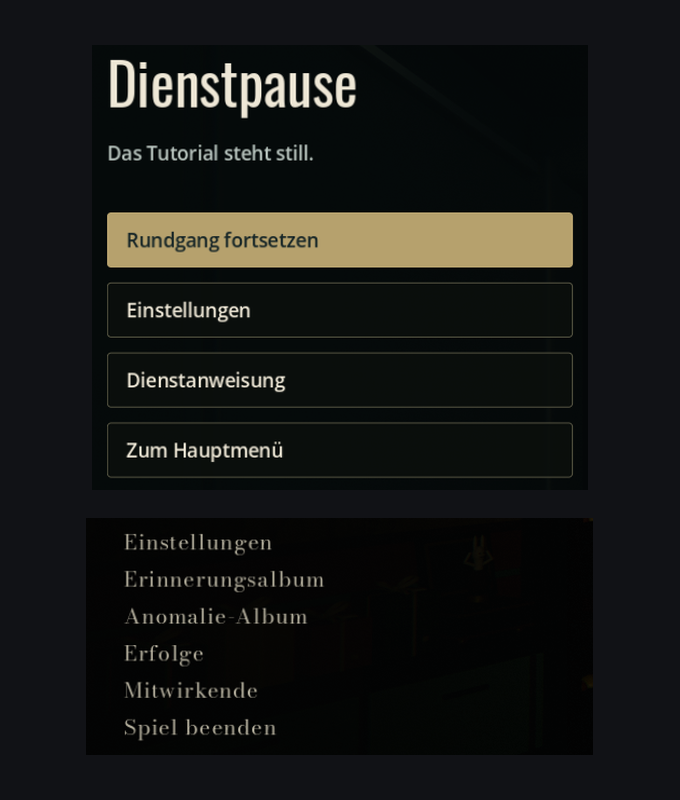
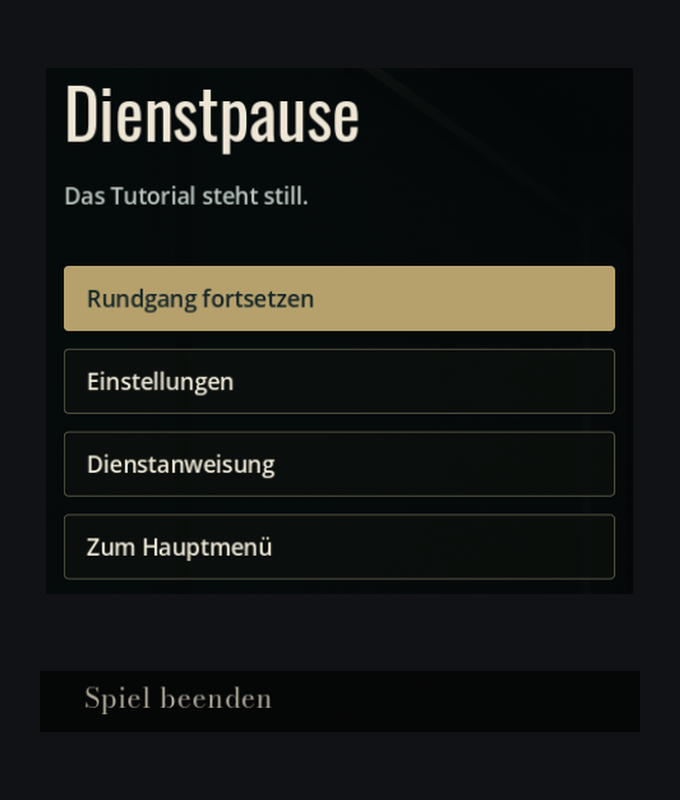
After Play 5.8.0: new main menu
- Dark glass panel over the live room; the party rabbit stays in the real
  scene. The big AFTER PLAY title stays.
- Saved shift as a card on top: round and minutes on duty
- Neue Nachtschicht, Weitere Spielmodi, Tutorial; Extras · Einstellungen;
  Spiel beenden; staff footer
- New Extras submenu: memory album, anomaly album, achievements, credits
- Tutorial uninstall picture: card 1 shows the new main menu
- Version 5.8.0, website download points to v5.8.0
- Tests: continue card in --tutorial-only (29 checks), Extras in album test

diff --git a/frontend/src/nachtwache/Nachtwache.jsx b/frontend/src/nachtwache/Nachtwache.jsx
@@ -18,6 +18,6 @@ export function AfterPlay(){
   const trailer=useRef(null);
   const [playing,setPlaying]=useState(false),[touch]=useState(()=>matchMedia('(pointer: coarse)').matches&&!matchMedia('(any-pointer: fine)').matches);
   const [tab,setTab]=useState(()=>typeof location!=='undefined'&&location.hash.includes('multiplayer')?'multiplayer':'game');
-  const launch=<section className="nightLaunch" aria-labelledby="night-title"><div className="nightLaunchCopy"><h2 id="night-title">After Play</h2><p className="nightSubtitle">Kinderparadies</p><p className="nightLead">Dreizehn Rundgänge.<br/>Keine zweite Sicherheit.</p><p>Nachts gehört das Spieleparadies dir. Kontrolliere Empfang, Bällebad, Party Raum, Wartungsgang, Küche und Kino. Präge dir jedes Detail ein – etwas könnte sich verändert haben.</p><div className="nightRules"><p><i className="nightGreen"/>Alles normal? <strong>Grüne Tür.</strong></p><p><i className="nightRed"/>Etwas stimmt nicht? <strong>Rote Tür.</strong></p><p><strong>13 richtige Entscheidungen in Folge.</strong> Eine falsche Tür beendet die Schicht.</p></div><div className="nightLaunchActions"><a href="/downloads/after-play-windows-v5.7.1.zip" download><Download size={19}/>Für Windows herunterladen</a><button type="button" disabled={touch} onClick={()=>{trailer.current?.pause();setPlaying(true);}}><Play size={19}/>Im Web spielen</button></div><p className="nightSystem"><Monitor size={16}/>Windows 64 Bit · hochwertige PC-Grafik · offline spielbar</p>{touch&&<p className="nightTouchNotice">Die Web-Version benötigt Maus und Tastatur. Den Windows-Download kannst du am PC öffnen.</p>}<details><summary>Steuerung und Spielablauf</summary><p>WASD oder Pfeiltasten: bewegen. Maus: umsehen. Umschalt: rennen. Leertaste: springen. C halten: ducken und krabbeln. E: interagieren. F: Taschenlampe. G: Gegenstände aufheben oder loslassen; linke Maustaste: werfen. TAB: Inventar. ESC: Pause. F11: Vollbild.</p><p>Präge dir beim ersten Rundgang die Räume ein. Alles normal? Grüne Tür. Eine Anomalie entdeckt? Rote Tür. Dreizehn richtige Entscheidungen in Folge beenden die Nachtschicht. Geräusche und selbst verschobene Gegenstände zählen nicht als Anomalien. Deutsch und Englisch sowie Untertitel findest du in den Einstellungen.</p></details><details><summary>Systemanforderungen</summary><p><strong>Mindestens</strong> (Grafik „Leistung“, 1080p): Windows 10/11 64 Bit · 4-Kern-Prozessor wie Intel Core i5-7500 oder AMD Ryzen 3 3100 · 8 GB RAM · Vulkan- oder Direct3D-12-fähige Grafikkarte mit 4 GB, z. B. GeForce GTX 1050 Ti oder Radeon RX 570 · 2 GB Speicherplatz.</p><p><strong>Empfohlen</strong> (Grafik „Hoch“, 1080p, 60 FPS): Intel Core i5-12400 oder AMD Ryzen 5 5600 · 16 GB RAM · GeForce RTX 3060 oder Radeon RX 6600 XT mit 8 GB · 2 GB Speicherplatz.</p></details></div><div className="nightLaunchArt"><video ref={trailer} controls playsInline preload="none" poster="/assets/after-play/trailer-v5.2.2.jpg" aria-label="After Play – Partynacht-Trailer"><source src="/downloads/after-play-trailer-1080p.mp4?v=5.2.2" type="video/mp4"/></video><p>Partynacht-Trailer · 83 Sekunden · echte Spielszenen</p></div>{playing&&<GameWindow onClose={()=>setPlaying(false)}/>}</section>;
+  const launch=<section className="nightLaunch" aria-labelledby="night-title"><div className="nightLaunchCopy"><h2 id="night-title">After Play</h2><p className="nightSubtitle">Kinderparadies</p><p className="nightLead">Dreizehn Rundgänge.<br/>Keine zweite Sicherheit.</p><p>Nachts gehört das Spieleparadies dir. Kontrolliere Empfang, Bällebad, Party Raum, Wartungsgang, Küche und Kino. Präge dir jedes Detail ein – etwas könnte sich verändert haben.</p><div className="nightRules"><p><i className="nightGreen"/>Alles normal? <strong>Grüne Tür.</strong></p><p><i className="nightRed"/>Etwas stimmt nicht? <strong>Rote Tür.</strong></p><p><strong>13 richtige Entscheidungen in Folge.</strong> Eine falsche Tür beendet die Schicht.</p></div><div className="nightLaunchActions"><a href="/downloads/after-play-windows-v5.8.0.zip" download><Download size={19}/>Für Windows herunterladen</a><button type="button" disabled={touch} onClick={()=>{trailer.current?.pause();setPlaying(true);}}><Play size={19}/>Im Web spielen</button></div><p className="nightSystem"><Monitor size={16}/>Windows 64 Bit · hochwertige PC-Grafik · offline spielbar</p>{touch&&<p className="nightTouchNotice">Die Web-Version benötigt Maus und Tastatur. Den Windows-Download kannst du am PC öffnen.</p>}<details><summary>Steuerung und Spielablauf</summary><p>WASD oder Pfeiltasten: bewegen. Maus: umsehen. Umschalt: rennen. Leertaste: springen. C halten: ducken und krabbeln. E: interagieren. F: Taschenlampe. G: Gegenstände aufheben oder loslassen; linke Maustaste: werfen. TAB: Inventar. ESC: Pause. F11: Vollbild.</p><p>Präge dir beim ersten Rundgang die Räume ein. Alles normal? Grüne Tür. Eine Anomalie entdeckt? Rote Tür. Dreizehn richtige Entscheidungen in Folge beenden die Nachtschicht. Geräusche und selbst verschobene Gegenstände zählen nicht als Anomalien. Deutsch und Englisch sowie Untertitel findest du in den Einstellungen.</p></details><details><summary>Systemanforderungen</summary><p><strong>Mindestens</strong> (Grafik „Leistung“, 1080p): Windows 10/11 64 Bit · 4-Kern-Prozessor wie Intel Core i5-7500 oder AMD Ryzen 3 3100 · 8 GB RAM · Vulkan- oder Direct3D-12-fähige Grafikkarte mit 4 GB, z. B. GeForce GTX 1050 Ti oder Radeon RX 570 · 2 GB Speicherplatz.</p><p><strong>Empfohlen</strong> (Grafik „Hoch“, 1080p, 60 FPS): Intel Core i5-12400 oder AMD Ryzen 5 5600 · 16 GB RAM · GeForce RTX 3060 oder Radeon RX 6600 XT mit 8 GB · 2 GB Speicherplatz.</p></details></div><div className="nightLaunchArt"><video ref={trailer} controls playsInline preload="none" poster="/assets/after-play/trailer-v5.2.2.jpg" aria-label="After Play – Partynacht-Trailer"><source src="/downloads/after-play-trailer-1080p.mp4?v=5.2.2" type="video/mp4"/></video><p>Partynacht-Trailer · 83 Sekunden · echte Spielszenen</p></div>{playing&&<GameWindow onClose={()=>setPlaying(false)}/>}</section>;
   return <><div className="nightTabs" role="tablist" aria-label="After Play"><button type="button" role="tab" aria-selected={tab==='game'} onClick={()=>setTab('game')}><Gamepad2 size={17}/>After Play</button><button type="button" role="tab" aria-selected={tab==='multiplayer'} onClick={()=>{trailer.current?.pause();setTab('multiplayer');}}><Radio size={17}/>After Play Multiplayer</button></div>{tab==='game'?launch:<AfterPlayMultiplayer/>}</>;
 }

diff --git a/games/kinderparadies/README.md b/games/kinderparadies/README.md
@@ -1,5 +1,13 @@
 # After Play — Kinderparadies
 
+## Neues Hauptmenü (5.8.0)
+
+- Dunkles Glas-Panel mit kaltem Rand über der echten 3D-Szene; der Partyhase steht rechts frei im Raum. Der große AFTER-PLAY-Schriftzug bleibt.
+- Gespeicherte Schicht als Karte ganz oben: „Schicht fortsetzen“ mit „Rundgang 04 von 13 · 12 Min. im Dienst“ (`Game.shift_save_info()`).
+- Hauptpunkte: Neue Nachtschicht, Weitere Spielmodi, Tutorial. Darunter klein „Extras · Einstellungen“ und „Spiel beenden“, unten „Mitarbeiterzugang · Nachtschicht“.
+- Neues Untermenü **Extras** (`NightMenus.extras`): Erinnerungsalbum, Anomalie-Album, Erfolge, Mitwirkende.
+- Knopfnamen bleiben `MainMenuAction0`–`6` (0 neu, 1 fortsetzen, 2 Modi, 3 Tutorial, 4 Extras, 5 Einstellungen, 6 beenden). Tutorial-Abbruchbild Karte 1 zeigt das neue Menü. Tests: `--tutorial-only` (29 Prüfungen, inkl. Fortsetzen-Karte), Album-Test prüft Extras.
+
 ## Tutorial-Abbruchbild mit echten Screenshots (5.7.1)
 
 - Das Bild nach der dritten falschen Tür zeigt echte, zusammengeschnittene Screenshots statt nachgebauter Kästen: Dienstpause + Hauptmenü („Spiel beenden“), Windows-Taskleiste und Startmenü („Einstellungen“), Einstellungs-Leiste („Apps“), Installierte Apps mit „…“ → „Deinstallieren“ unter After Play. Bilder in `assets/uninstall-v571/` (680×800, halbe Größe angezeigt), Ringpositionen in `AfterPlayTutorial.STEPS`.
